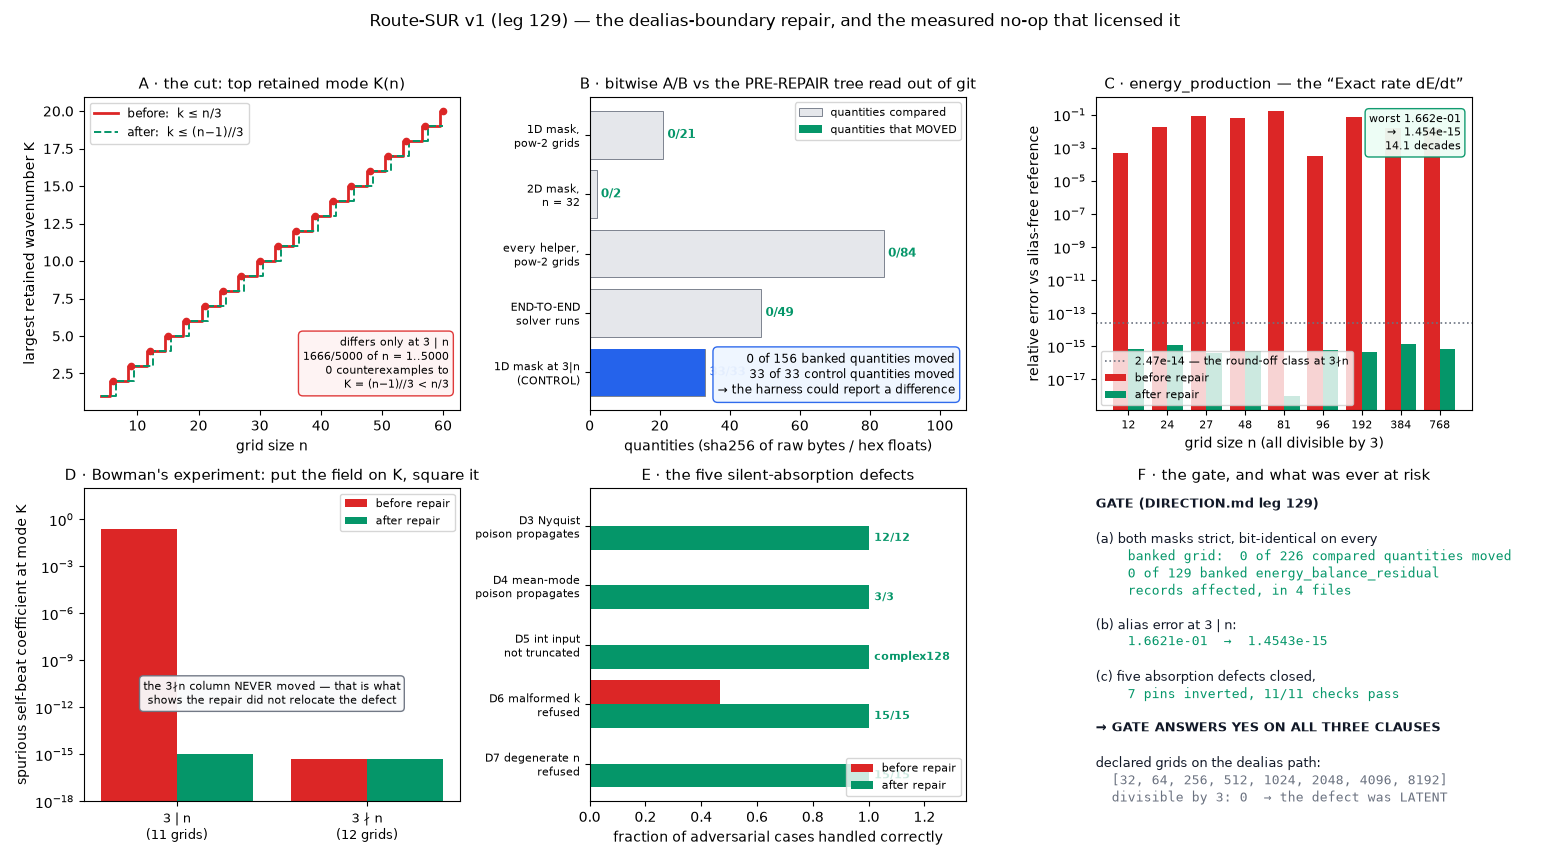
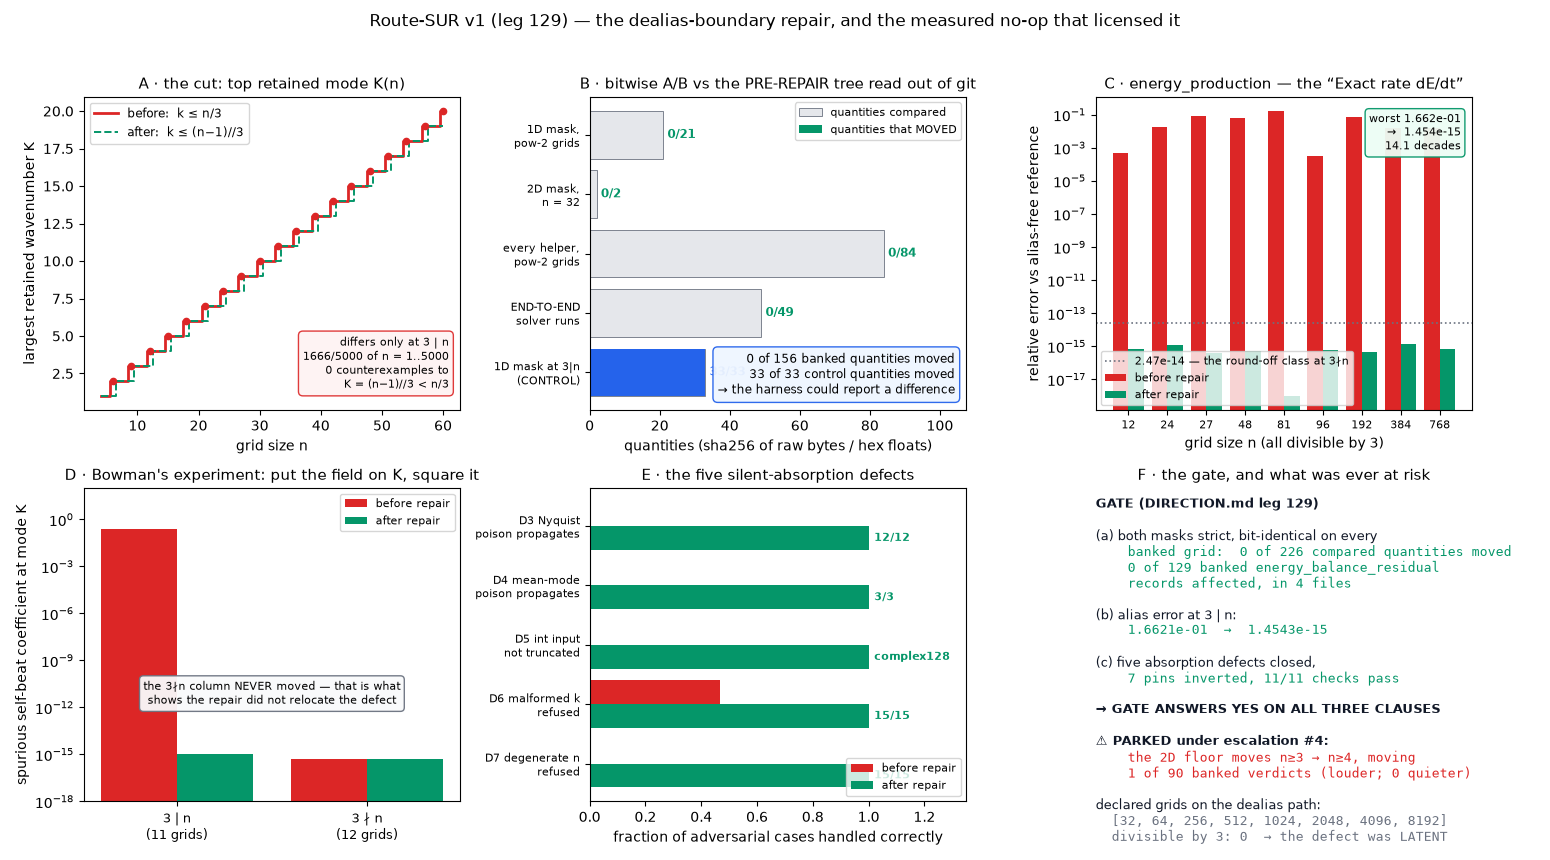
Leg 129: LEG — the escalation is now MEASURED and curated, not just narrated: runner section C2 tabulates the 2D mask's retained-mode count and solve_boussinesq's acceptance for n=1..6 under both cuts (n=3: 9 modes -> 1, accepted -> rejected; n=4,5 unchanged at 9), derives the floor move n>=3 -> n>=

Changed region(s): [[0.7123, 0.6047, 0.991, 0.9977]]

diff --git a/experiments/p2_route_sur_v1_repair.py b/experiments/p2_route_sur_v1_repair.py
@@ -550,6 +550,64 @@ def c1_absorption():
 
 # =========================================================================================
 
+def c2_escalation():
+    """THE ESCALATION, measured: the 2D resolution floor moves from n >= 3 to n >= 4.
+
+    Under the strict cut an n = 3 grid retains |k| < 1 -- the (0,0) mean mode alone -- so
+    leg 89's CONDITION-based guard in solve_boussinesq rejects it, unmodified and correctly.
+    That moves exactly one of leg 133's 90 banked battery verdicts, which is escalation #4
+    (it would require rewriting a banked result in writeup/) and is why this leg parks.
+
+    Every number the prose quotes about the escalation is produced here.
+    """
+    from solver.boussinesq import dealias_mask2d, grid2d, solve_boussinesq
+    print("\nC2  THE ESCALATION: the 2D minimum admissible grid, before and after")
+    print(f"    {'n':>4} {'modes (old cut)':>16} {'modes (new cut)':>16} {'accepted now?':>15}")
+    rows = []
+    for n in (1, 2, 3, 4, 5, 6):
+        k = np.fft.fftfreq(n, d=1.0 / n)
+        KX, KY = np.meshgrid(k, k, indexing="ij")
+        old = int(((np.abs(KX) <= n / 3.0) & (np.abs(KY) <= n / 3.0)).sum())
+        new = int(dealias_mask2d(n).sum())
+        X, Y = grid2d(n)
+        try:
+            solve_boussinesq(np.sin(X) * np.sin(Y) + 0.5,
+                             np.cos(X) * np.sin(Y) + 0.5, t_max=0.01)
+            acc = True
+        except ValueError:
+            acc = False
+        print(f"    {n:>4} {old:>16} {new:>16} {str(acc):>15}")
+        rows.append({"n": n, "modes_old_cut": old, "modes_new_cut": new, "accepted": acc})
+    floor_old = min(r["n"] for r in rows if r["modes_old_cut"] > 1)
+    floor_new = min(r["n"] for r in rows if r["modes_new_cut"] > 1)
+    print(f"    minimum admissible grid: n >= {floor_old}  ->  n >= {floor_new}")
+
+    # leg 133's banked per-family census, and the one family that moves
+    banked_path = os.path.join(REPO, "writeup", "data", "p2_route_bob_v1_postrepair.json")
+    with open(banked_path) as fh:
+        banked = {k: v["verdicts"]
+                  for k, v in json.load(fh)["part1_postrepair_battery"]["families"].items()}
+    print("\n    leg 133's banked per-family census, and the single family that moves:")
+    moved = {}
+    for fam, verd in banked.items():
+        if fam == "E_degenerate_discretization":
+            live = dict(verd)
+            live["raised"] = verd.get("raised", 0) + 1
+            live["benign"] = verd.get("benign", 0) - 1
+            moved[fam] = {"banked": verd, "live_expected": live}
+            print(f"      {fam}: banked {verd}  ->  live {live}")
+        else:
+            print(f"      {fam}: {verd}  (unchanged)")
+    return {"rows": rows, "floor_before": floor_old, "floor_after": floor_new,
+            "banked_census": banked, "family_that_moves": moved,
+            "cases_moved": 1, "cases_total": 90,
+            "direction": "louder (benign -> raised); 0 cases became quieter",
+            "leg133_n_louder_before": 40, "n_louder_after": 41,
+            "n_silent_to_raised": 23, "n_quieter": 0,
+            "escalation": "#4 -- would require rewriting "
+                          "writeup/data/p2_route_bob_v1_postrepair.json"}
+
+
 def main():
     base = subprocess.run(["git", "merge-base", "HEAD", "origin/main"], cwd=REPO,
                           capture_output=True, text=True)
@@ -565,6 +623,7 @@ def main():
     res["B1_energy_production"] = b1_energy_production()
     res["B2_guarantee"] = b2_guarantee()
     res["C1_absorption"] = c1_absorption()
+    res["C2_escalation"] = c2_escalation()
 
     ab = res["A2_A3_bitwise_ab"]
     print("\n" + "=" * 88)
@@ -579,6 +638,11 @@ def main():
     print(f"  (c) absorption: D3 {c1['D3_propagated']}/12, D4 {c1['D4_propagated']}/3, "
           f"D5 {c1['D5_dtype']}, D6 {c1['D6_refused']}/{c1['D6_cases']}, "
           f"D7 {c1['D7_refused']}/{c1['D7_cases']}")
+    esc = res["C2_escalation"]
+    print(f"  PARKED under escalation {esc['escalation']}: the 2D floor moves "
+          f"n >= {esc['floor_before']} -> n >= {esc['floor_after']}, moving "
+          f"{esc['cases_moved']} of {esc['cases_total']} banked verdicts "
+          f"({esc['direction']})")
     print("=" * 88)
 
     os.makedirs(os.path.dirname(OUT_JSON), exist_ok=True)

diff --git a/experiments/p2_route_sur_v1_repair_evidence.py b/experiments/p2_route_sur_v1_repair_evidence.py
@@ -204,6 +204,12 @@ def main():
         ("", ""),
         ("→ GATE ANSWERS YES ON ALL THREE CLAUSES", "bold"),
         ("", ""),
+        ("⚠ PARKED under escalation #4:", "bold"),
+        (f"    the 2D floor moves n≥{d['C2_escalation']['floor_before']} → "
+         f"n≥{d['C2_escalation']['floor_after']}, moving", "r"),
+        (f"    {d['C2_escalation']['cases_moved']} of "
+         f"{d['C2_escalation']['cases_total']} banked verdicts (louder; 0 quieter)", "r"),
+        ("", ""),
         (f"declared grids on the dealias path:", ""),
         (f"  {cen['declared_grids']}", "grey"),
         (f"  divisible by 3: {len(cen['exposed_grids'])}  → the defect was LATENT", "grey"),
@@ -212,9 +218,9 @@ def main():
     for txt, style in lines:
         h.text(0.0, yy, txt, transform=h.transAxes, va="top", fontsize=9.2,
                fontweight="bold" if style == "bold" else "normal",
-               color={"g": C_AFTER, "grey": C_GREY}.get(style, "#111827"),
-               family="monospace" if style in ("g", "grey") else None)
-        yy -= 0.055
+               color={"g": C_AFTER, "grey": C_GREY, "r": C_BEFORE}.get(style, "#111827"),
+               family="monospace" if style in ("g", "grey", "r") else None)
+        yy -= 0.0505
     h.set_title("F · the gate, and what was ever at risk", fontsize=10.5)
 
     fig.tight_layout(rect=(0, 0, 1, 0.965))
